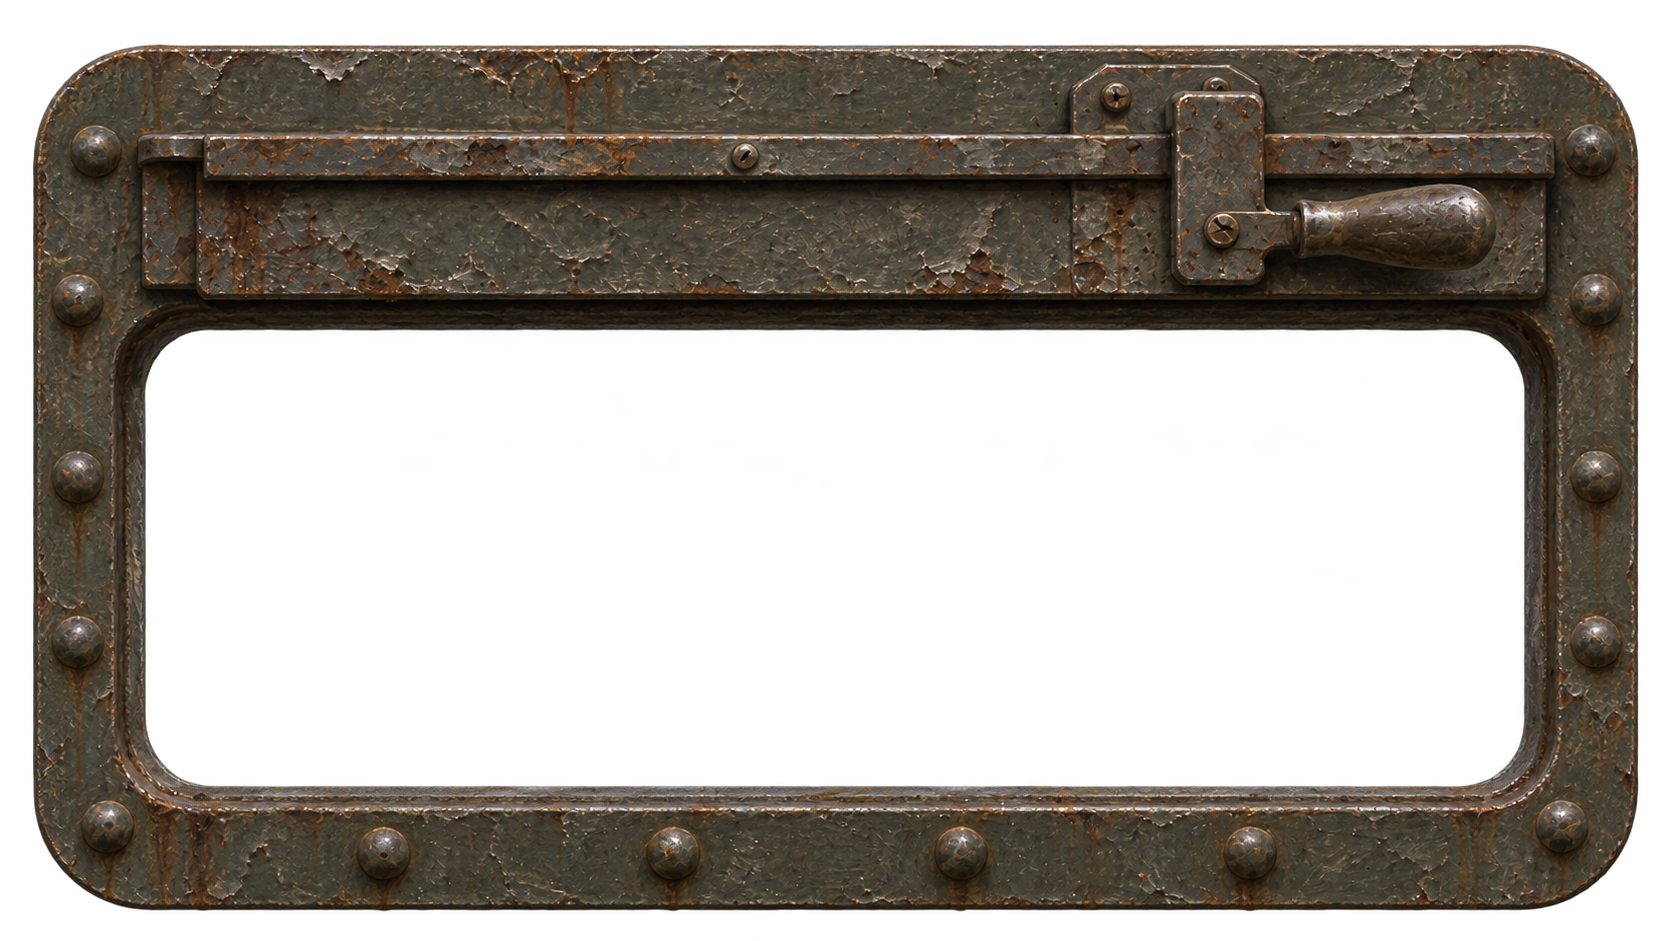
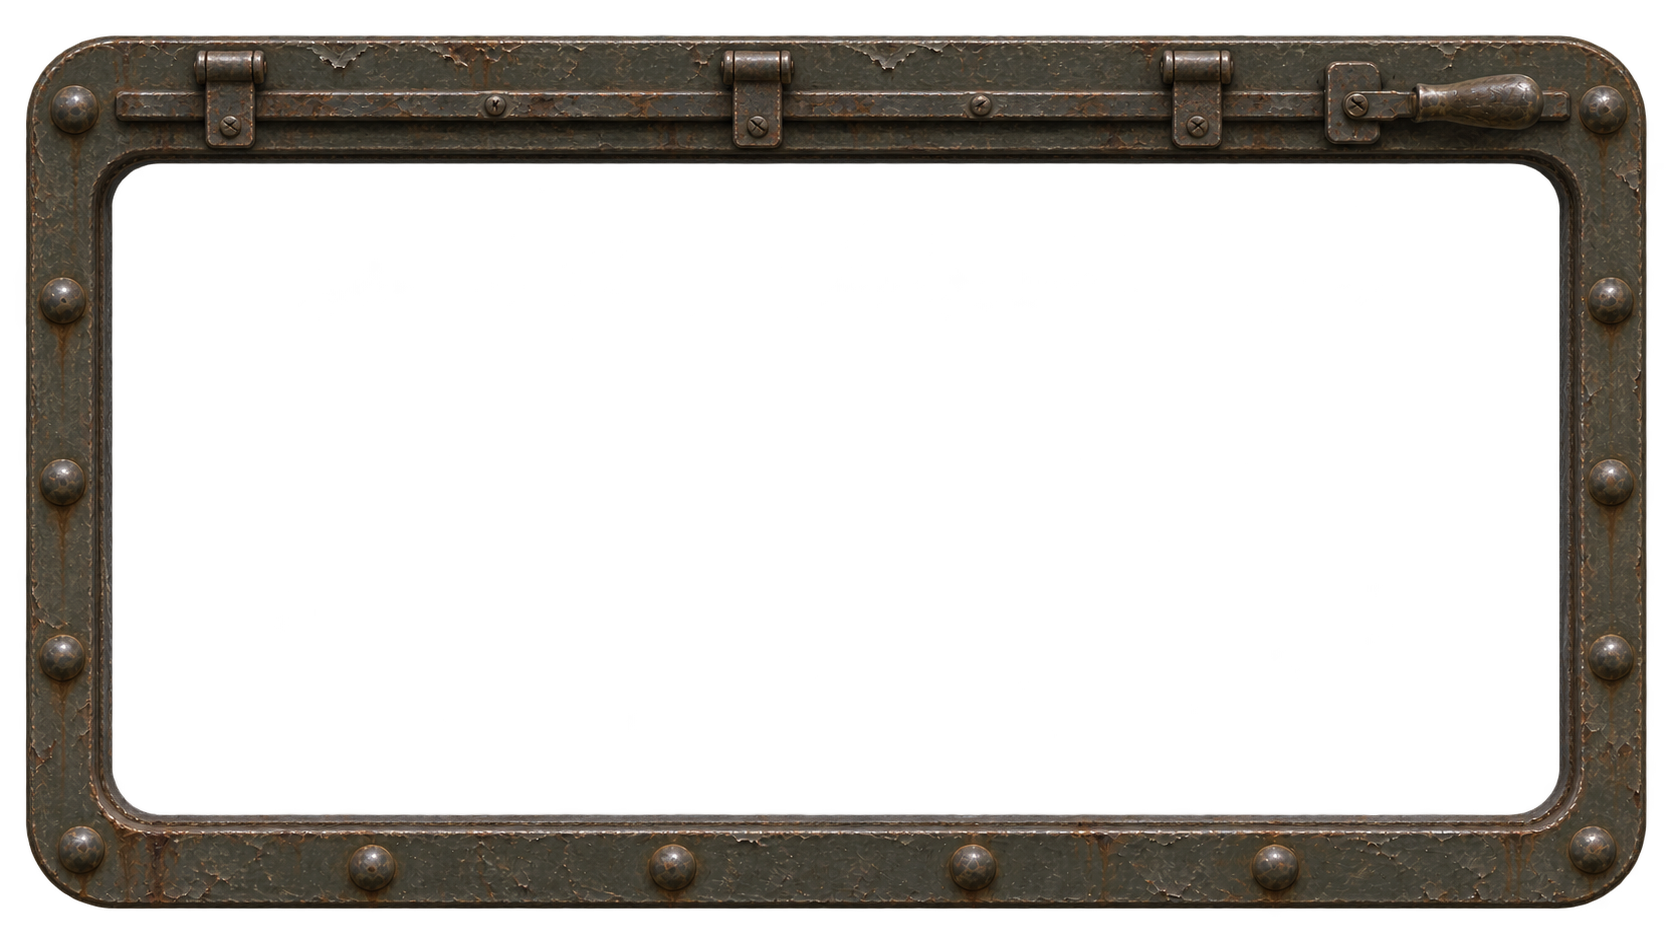
Web edition: a taller embrasure, the shutter swung up out of sight
The menu's painting shows through an opening of 74 % of the frame's height
instead of 52 %; the frame is a little wider and the help strip sits lower.

diff --git a/webapp/app/src/shell/ShellUI.tsx b/webapp/app/src/shell/ShellUI.tsx
@@ -150,9 +150,9 @@ function Art({
  */
 const enlarge = 1.2;
 /** The units of the embrasure's width in landscape; upright it spans the column. */
-const embrasureWidth = 460;
+const embrasureWidth = 470;
 /**
- * Embrasure is the heavy frame cut into the plate with its shutter pushed open, the page's painting seen through
+ * Embrasure is the heavy frame cut into the plate with its shutter swung up out of sight, the page's painting seen through
  * its opening. The painting is chosen for the opening's drawn width; it reaches under the frame's lip.
  */
 function Embrasure({ p, scene }: { p: ShellUIProps; scene: string }) {
@@ -178,7 +178,7 @@ function Embrasure({ p, scene }: { p: ShellUIProps; scene: string }) {
         p={p}
         id="armour/embrasure"
         className="shell-embrasure-frame"
-        scale={frame / 803 / enlarge}
+        scale={frame / 811 / enlarge}
         lite
       />
     </div>

diff --git a/webapp/app/src/shell/shell.css b/webapp/app/src/shell/shell.css
@@ -462,15 +462,15 @@
 /* The embrasure: the page's painting under the frame's opening, the frame over it. */
 .shell-embrasure {
   position: absolute;
-  left: calc(222 * var(--u));
-  top: calc(76 * var(--u));
-  width: calc(460 * var(--u));
-  aspect-ratio: 1606 / 868;
+  left: calc(218 * var(--u));
+  top: calc(74 * var(--u));
+  width: calc(470 * var(--u));
+  aspect-ratio: 1622 / 874;
 }
 .shell-embrasure-view {
   position: absolute;
   /* The opening (materials.ts embrasureHole), reaching a little under the frame's lip. */
-  inset: 31.9% 6.6% 13.5% 6.4%;
+  inset: 13.8% 4.9% 9.9% 4.9%;
   overflow: hidden;
   background: rgb(30 31 27);
 }
@@ -506,7 +506,7 @@
   height: var(--ph);
   position: absolute;
   left: calc(302 * var(--u));
-  top: calc(334 * var(--u));
+  top: calc(337 * var(--u));
   width: calc(300 * var(--u));
   flex-direction: column;
   gap: calc(1 * var(--u));

diff --git a/webapp/app/e2e/shell.spec.ts b/webapp/app/e2e/shell.spec.ts
@@ -95,8 +95,8 @@ test.describe("the menus on the armour plate", () => {
     const frame = await page.locator(".shell-embrasure").boundingBox(),
       view = await page.locator(".shell-embrasure-view").boundingBox(),
       help = await page.locator(".shell-help").boundingBox();
-    expect(frame?.width).toBeCloseTo(460 * u, 0);
-    expect(frame?.height).toBeCloseTo((460 * u * 868) / 1606, 0);
+    expect(frame?.width).toBeCloseTo(470 * u, 0);
+    expect(frame?.height).toBeCloseTo((470 * u * 874) / 1622, 0);
     expect(view?.width ?? 0).toBeGreaterThan(0.85 * (frame?.width ?? 0));
     expect(help?.y ?? 0).toBeGreaterThan(
       (frame?.y ?? 0) + (frame?.height ?? 0),

diff --git a/webapp/app/src/shell/materials.ts b/webapp/app/src/shell/materials.ts
@@ -14,13 +14,13 @@ export const plateSize = { width: 836, height: 470 },
 
 /** The opening of armour/embrasure in fractions of the frame (its alpha, measured on the 2x art). */
 export const embrasureHole = {
-  left: 0.0697,
-  top: 0.3295,
-  right: 0.0716,
-  bottom: 0.1452,
+  left: 0.0543,
+  top: 0.1476,
+  right: 0.0543,
+  bottom: 0.1087,
 };
 /** The frame's width over its height. */
-export const embrasureAspect = 1606 / 868;
+export const embrasureAspect = 1622 / 874;
 
 /**
  * shellUnit is the CSS pixels of one unit of the shell's layout, as shell.css sets --u: the window holds a 16:9 stage of

diff --git a/art/screens/armour/prompt.md b/art/screens/armour/prompt.md
@@ -12,7 +12,7 @@ The web edition's start screen and shell pages as the inside of a field-grey riv
 (the "armour plate" concept draft chosen on 2026-11-12): thick chipped grey-green plate with rust
 bleeding from dome rivets, the title stencilled in worn bone-white paint, the menu entries on cast
 brass nameplates fixed with slotted screws (dull when idle, rubbed bright when selected), two enamel
-flag plaques and a heavy embrasure frame with its shutter pushed open, through which the menu's
+flag plaques and a heavy embrasure frame with its shutter swung up out of sight, through which the menu's
 landscape painting shows. Worn out and sad rather than heroic. Every part is painted alone; all text
 but the title is live.
 
@@ -39,7 +39,7 @@ Attachment: Image 1 is the chosen concept draft of the whole start screen. Take 
 | title | | `start-parts-title1` (exec-c06072a0), 1536x1024 RGBA, lettering 1420x303, spelled HISTORYLINE / 1914 - 1918: worn stencil paint. |
 | nameplate | | `start-parts-name1` (exec-40015ca6), 1536x1024 RGBA, plate 1446x236, mean RGB 102,79,50: the blank dull brass plate. |
 | nameplate-polished | | `start-parts-name2` (exec-3aa4a066), 1536x1024 RGBA, plate 1446x233, mean RGB 158,117,65: the same plate rubbed bright; `nameplate.png` attached as image 2. |
-| embrasure | | `start-parts-emb1` (exec-0453baab), 1672x941 RGBA, frame 1605x866, clear opening and margin, mean RGB 74,64,50. |
+| embrasure | | `start-parts-emb3` (exec-0087c3a6, 2026-11-12), 1672x941 RGBA, frame 1622x874, opening 89 % of its width and 74 % of its height; the present frame (`start-parts-emb1`, its opening 52 % of the height) attached as image 2. |
 | rivets | | `start-parts-rivet1` (exec-108bc84a), 1774x887 RGBA, 4x2 heads of about 183 px with rust runs of 220-268 px. |
 | plaque-germany | | `start-parts-de1` (exec-613f42e4), 1536x1024 RGBA, plaque 1410x898: black-white-red enamel. |
 | plaque-france | | `start-parts-fr1` (exec-73de1a56), 1536x1024 RGBA, plaque 1367x874: blue-white-red enamel. |
@@ -96,13 +96,14 @@ Attachment: Image 1 is the chosen concept draft of the whole start screen. Take 
 embrasure:
 
 ```text
-PART: THE EMBRASURE FRAME (a window frame; the game shows its own landscape painting through the opening). Single interface piece, LANDSCAPE 16:9, 1672x941 pixels canvas, true transparency.
-Subject: the heavy steel frame of a wide horizontal embrasure (vision slit) cut through armour plate, seen straight on, like the embrasure in image 1 but alone: a thick riveted steel frame around a wide rectangular opening with rounded corners. The frame band is about 64 px wide on the left, right and bottom, with dome-head rivets spaced evenly around it (about 30 px across); the top band is deeper, about 210 px, and carries the heavy sliding shutter plate pushed up and open on a horizontal rail, with a latch and a worn steel pull handle near its right end, as in image 1.
-Geometry: the frame's outer edge runs about 24 px inside the canvas edges. The opening's edge runs about 88 px inside the left, right and bottom canvas edges and about 240 px below the top canvas edge; its corners are rounded with a radius of about 36 px. The inner lip of the opening shows a dark bevel, the depth of the thick steel.
-Inside the opening: alpha zero, fully transparent, nothing visible through it (no landscape, no sky, no glass, no colour). Outside the frame's outer edge: alpha zero too (no plate around the frame, no ground).
-Material: the same chipped field-grey green paint over steel as in image 1 (mean about RGB 78,80,68), rust bleeding from the rivets and along the shutter rail, dark grime in the corners, scratches and dents. No lettering, no numbers. No halo, no glow, no cast shadow outside the frame, no checkerboard.
+PART: THE EMBRASURE FRAME, WIDE OPEN (a window frame; the game shows its own landscape painting through the opening). Single interface piece, LANDSCAPE 16:9, 1672x941 pixels canvas, true transparency.
+Subject: the heavy steel frame of a large rectangular embrasure (observation port) cut through armour plate, seen straight on: the same frame as in image 2, with the same steel, paint, rust and dome rivets, but with a MUCH TALLER opening. The opening takes almost the whole frame; the shutter no longer hangs in front of the upper part. Its shutter plate is swung up and away out of sight, so only its hardware remains on the top band.
+The frame band is a thick riveted steel band about 64 px wide on the left, right and bottom, with dome-head rivets spaced evenly around it (about 30 px across). The top band is only a little deeper, about 100 px (about 1/9 of the canvas height, NOT a third as in image 2): it carries one slim horizontal hinge rail with three heavy strap hinges and, near its right end, a small latch with a worn steel pull handle lying flat along the rail. Nothing of the shutter, rail or handle hangs down over the opening.
+Geometry: the frame's outer edge runs about 24 px inside the canvas edges. The opening's edge runs about 88 px inside the left, right and bottom canvas edges and about 124 px below the top canvas edge, so the opening is about 1496 px wide and about 729 px tall (about 78 % of the canvas height); its corners are rounded with a radius of about 36 px. The inner lip of the opening shows a dark bevel, the depth of the thick steel.
+Inside the opening: alpha zero, fully transparent, nothing visible through it (no landscape, no sky, no glass, no colour, no bars, no crosshair). Outside the frame's outer edge: alpha zero too (no plate around the frame, no ground).
+Material: the same chipped field-grey green paint over steel as in images 1 and 2 (mean about RGB 78,80,68; the frame is grey-green like the plate, not brown), rust bleeding from the rivets and along the hinge rail, dark grime in the corners, scratches and dents. No lettering, no numbers. No halo, no glow, no cast shadow outside the frame, no checkerboard.
 
-Attachment: Image 1 is the chosen concept draft of the whole start screen. Take from it the same materials, wear and palette (its grey-green riveted armour plate, its cast brass nameplates, its enamel flag plaques, its stencil paint). Paint ONLY the one part described above, alone on its canvas, not the whole screen; copy none of its lettering, layout or scenery unless this prompt asks for it.
+Attachment: Image 1 is the chosen concept draft of the whole start screen. Take from it the same materials, wear and palette (its grey-green riveted armour plate). Image 2 is the present embrasure frame: keep its frame band, rivets, paint and wear, but make the opening as tall as described and replace the deep shutter band by the slim hinge rail. Paint ONLY the one part described above, alone on its canvas; copy no lettering or scenery.
 ```
 
 rivets:
